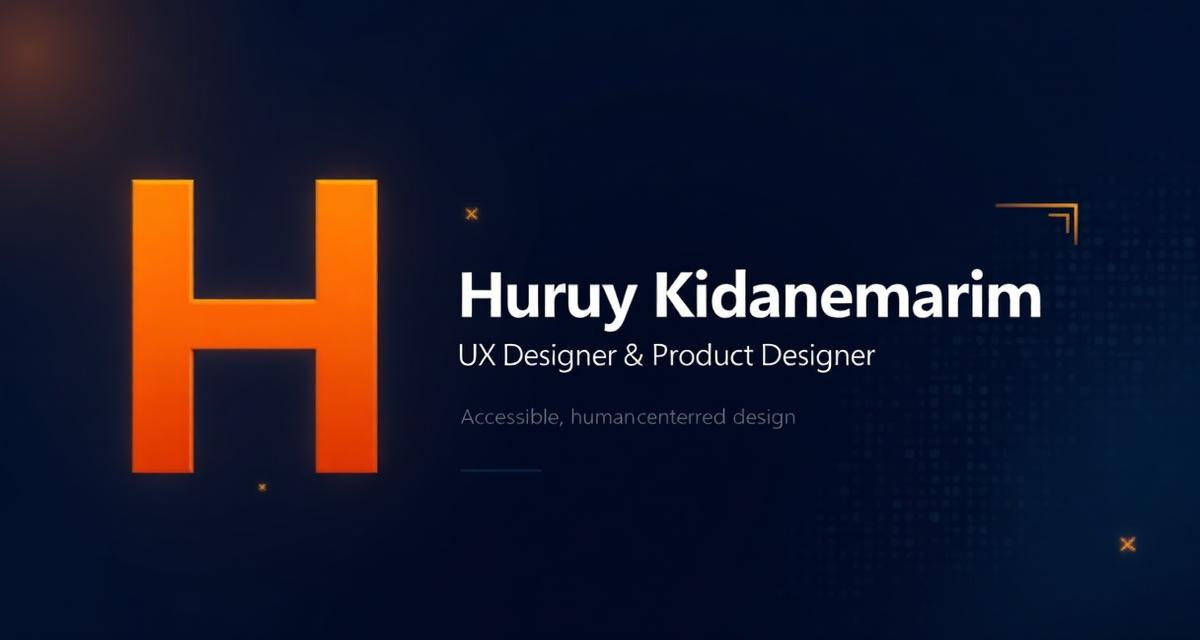
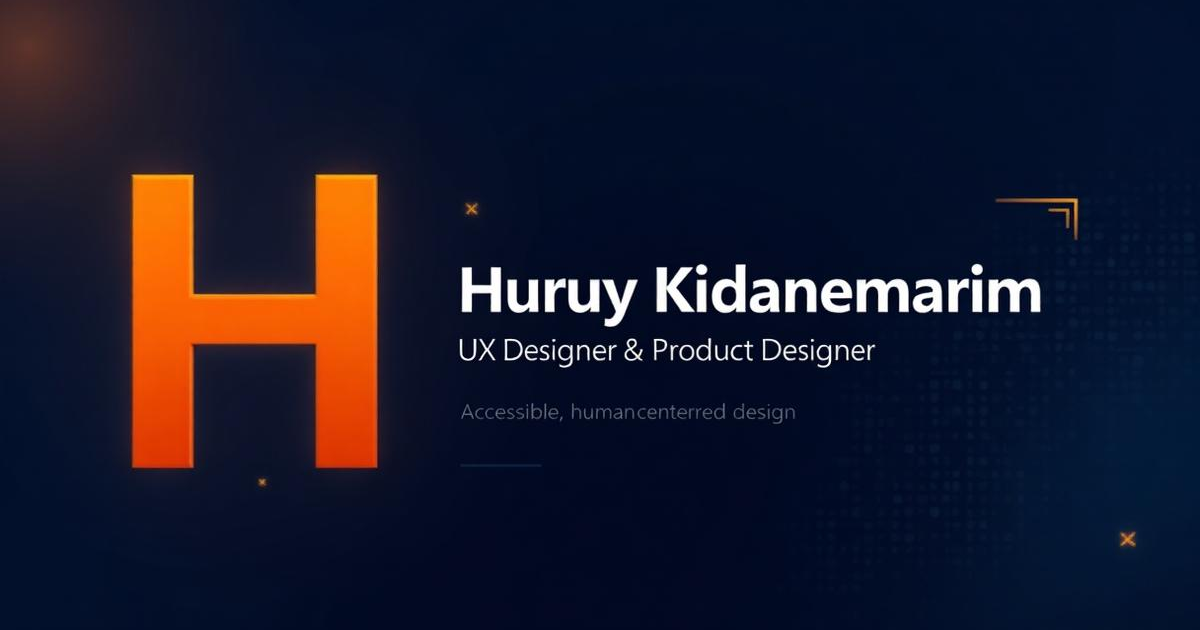
Ship WebP images with dimensions and lazy-load demos and the chat
public/images drops from 11 MB of PNG to 632 KB of WebP (max 1600px); the
three unreferenced images and the unused pay screen are deleted. Every
case-study image carries width, height, loading=lazy and decoding=async
from a generated dimensions map, and empty slots render nothing. Homepage
demos are separate chunks fetched when their card nears the viewport, with
an aspect-ratio placeholder that never widens a phone viewport. A real
1200x630 og-image.png replaces the Lovable bucket screenshot.

Claude-Session: https://claude.ai/code/session_01MdasXvTZ9R8SKjtyNW7zGh

diff --git a/src/components/ProjectCard.tsx b/src/components/ProjectCard.tsx
@@ -1,174 +1,186 @@
 import { Link } from "react-router-dom";
 import { motion } from "framer-motion";
-import { ArrowUpRight, ChevronDown } from "lucide-react";
+import { ArrowUpRight, Lock } from "lucide-react";
 import { Badge } from "@/components/ui/badge";
 import { Button } from "@/components/ui/button";
-import { Collapsible, CollapsibleContent, CollapsibleTrigger } from "@/components/ui/collapsible";
-import BenefitsModuleDemo from "@/components/case-study/BenefitsModuleDemo";
-import EBTSearchDemo from "@/components/case-study/EBTSearchDemo";
-import BelesMatchDemo from "@/components/case-study/BelesMatchDemo";
-import TaxComplianceDashboardDemo from "@/components/case-study/TaxComplianceDashboardDemo";
 import ResponsiveAppShell from "@/components/case-study/ResponsiveAppShell";
+import { AppleLogo } from "@/components/AppStorePromoBanner";
 import type { Project } from "@/lib/projects";
-import { useId, useState, type ComponentType } from "react";
+import { imageDimensions } from "@/lib/imageDimensions";
+import { useId, lazy, Suspense, useEffect, useRef, useState, type ComponentType, type LazyExoticComponent } from "react";
 import { getAppStoreUrl, trackAppStoreClick } from "@/lib/analytics";
 
-const AppleLogo = ({ className }: { className?: string }) => (
-  <svg viewBox="0 0 384 512" fill="currentColor" className={className} aria-hidden="true">
-    <path d="M318.7 268.7c-.2-36.7 16.4-64.4 50-84.8-18.8-26.9-47.2-41.7-84.7-44.6-35.5-2.8-74.3 20.7-88.5 20.7-15 0-49.4-19.7-76.4-19.7C63.3 141.2 4 184.8 4 273.5q0 39.3 14.4 81.2c12.8 36.7 59 126.7 107.2 125.2 25.2-.6 43-17.9 75.8-17.9 31.8 0 48.3 17.9 76.4 17.9 48.6-.7 90.4-82.5 102.6-119.3-65.2-30.7-61.7-90-61.7-91.9zm-56.6-164.2c27.3-32.4 24.8-61.9 24-72.5-24.1 1.4-52 16.4-67.9 34.9-17.5 19.8-27.8 44.3-25.6 71.9 26.1 2 49.9-11.4 69.5-34.3z" />
-  </svg>
-);
-
-const demoComponents: Record<string, ComponentType> = {
-  "oneasure-portal": BenefitsModuleDemo,
-  "ebtfinder": EBTSearchDemo,
-  "beles": BelesMatchDemo,
-  "asure-compliance": TaxComplianceDashboardDemo,
+// Each interactive demo is its own chunk, fetched only once its card scrolls into view.
+const demoComponents: Record<string, LazyExoticComponent<ComponentType>> = {
+  "oneasure-portal": lazy(() => import("@/components/case-study/BenefitsModuleDemo")),
+  ebtfinder: lazy(() => import("@/components/case-study/EBTSearchDemo")),
+  beles: lazy(() => import("@/components/case-study/BelesMatchDemo")),
+  "asure-compliance": lazy(() => import("@/components/case-study/TaxComplianceDashboardDemo")),
 };
 
 const responsiveProjects = new Set(["oneasure-portal", "asure-compliance"]);
 
-const ProjectCard = ({ project, index }: { project: Project; index: number; featured?: boolean }) => {
+/** True once the element has been near the viewport; never flips back. */
+function useNearViewport<T extends Element>(rootMargin = "300px") {
+  const ref = useRef<T>(null);
+  const [near, setNear] = useState(false);
+  useEffect(() => {
+    const el = ref.current;
+    if (!el || near) return;
+    if (typeof IntersectionObserver === "undefined") {
+      setNear(true);
+      return;
+    }
+    const observer = new IntersectionObserver(
+      (entries) => {
+        if (entries.some((e) => e.isIntersecting)) {
+          setNear(true);
+          observer.disconnect();
+        }
+      },
+      { rootMargin },
+    );
+    observer.observe(el);
+    return () => observer.disconnect();
+  }, [near, rootMargin]);
+  return { ref, near };
+}
+
+/** Placeholder with the demo's aspect ratio; never wider than its container so phones don't get a horizontal scroll. */
+const DemoSkeleton = ({ width, height }: { width: number; height: number }) => (
+  <div
+    className="w-full rounded-[2rem] border-[3px] border-foreground/10 bg-muted/40 animate-pulse"
+    style={{ maxWidth: width, aspectRatio: `${width} / ${height}` }}
+    aria-hidden="true"
+  />
+);
+
+const ProjectCard = ({ project, index }: { project: Project; index: number }) => {
   const DemoComponent = demoComponents[project.id];
   const useResponsiveShell = DemoComponent && responsiveProjects.has(project.id);
   const shellWidth = 220;
   const shellHeight = 280;
-  const [detailsOpen, setDetailsOpen] = useState(false);
   const titleId = useId();
-  const detailsId = useId();
+  const { ref, near } = useNearViewport<HTMLDivElement>();
+  const dims = imageDimensions[project.image];
 
   return (
     <motion.div
+      ref={ref}
       initial={{ opacity: 0, y: 30 }}
       whileInView={{ opacity: 1, y: 0 }}
       viewport={{ once: true, margin: "-50px" }}
       transition={{ duration: 0.5, delay: index * 0.1 }}
-      
       className={`h-full ${index === 0 ? "scroll-mt-8" : ""}`}
       id={index === 0 ? "first-project" : undefined}
     >
       <article aria-labelledby={titleId} className="group flex h-full flex-col overflow-hidden rounded-lg border border-border bg-card transition-colors duration-300 hover:border-accent/30 focus-within:border-accent/40">
-          
-          {/* Image / Interactive preview area */}
-          <div
-            className={`${DemoComponent ? 'bg-muted/30' : ''} relative flex h-[440px] shrink-0 items-center justify-center overflow-hidden p-4 sm:h-[460px] sm:p-5`}
-            style={{
-              background: !DemoComponent && project.image.includes("hero-mockup") && !project.image.includes("ebtfinder")
-                ? "linear-gradient(135deg, hsl(var(--muted)) 0%, hsl(var(--muted) / 0.6) 100%)"
-                : undefined,
-            }}
-          >
-            {DemoComponent ? (
-              <div className="relative flex h-full min-w-0 w-full items-center justify-center" role="group" aria-label={`${project.title} interactive preview`}>
-                {useResponsiveShell ? (
-                  <div className="w-full min-w-0">
-                    <ResponsiveAppShell
-                      allowToggle
-                      label={project.title}
-                      desktopWidth={500}
-                      desktopHeight={265}
-                      mobileWidth={shellWidth}
-                      mobileHeight={shellHeight}
-                    >
-                      <DemoComponent />
-                    </ResponsiveAppShell>
-                  </div>
-                ) : (
-                  <div
-                    className="rounded-[2rem] border-[3px] border-foreground/20 bg-background shadow-2xl overflow-hidden"
-                    style={{ width: shellWidth }}
+        {/* Image / Interactive preview area */}
+        <div
+          className={`${DemoComponent ? "bg-muted/30" : ""} relative flex h-[440px] shrink-0 items-center justify-center overflow-hidden p-4 sm:h-[460px] sm:p-5`}
+        >
+          {DemoComponent ? (
+            <div className="relative flex h-full min-w-0 w-full items-center justify-center" role="group" aria-label={`${project.title} interactive preview`}>
+              {!near ? (
+                <DemoSkeleton width={useResponsiveShell ? 500 : shellWidth} height={useResponsiveShell ? 265 : shellHeight} />
+              ) : useResponsiveShell ? (
+                <div className="w-full min-w-0">
+                  <ResponsiveAppShell
+                    allowToggle
+                    label={project.title}
+                    desktopWidth={500}
+                    desktopHeight={265}
+                    mobileWidth={shellWidth}
+                    mobileHeight={shellHeight}
                   >
-                    <div className="bg-foreground/10 h-5 flex items-center justify-center shrink-0">
-                      <div className="w-14 h-1 rounded-full bg-foreground/20" />
-                    </div>
-                    <div
-                      className="relative overflow-y-auto"
-                      style={{
-                        height: shellHeight,
-                        WebkitOverflowScrolling: "touch",
-                        scrollbarWidth: "none",
-                        msOverflowStyle: "none",
-                      }}
-                    >
+                    <Suspense fallback={<DemoSkeleton width={500} height={265} />}>
                       <DemoComponent />
-                    </div>
+                    </Suspense>
+                  </ResponsiveAppShell>
+                </div>
+              ) : (
+                <div
+                  className="rounded-[2rem] border-[3px] border-foreground/20 bg-background shadow-2xl overflow-hidden"
+                  style={{ width: shellWidth }}
+                >
+                  <div className="bg-foreground/10 h-5 flex items-center justify-center shrink-0">
+                    <div className="w-14 h-1 rounded-full bg-foreground/20" />
                   </div>
-                )}
-              </div>
-            ) : (
-              <img
-                src={project.image}
-                loading={index === 0 ? "eager" : "lazy"}
-                decoding="async"
-                width={1200}
-                height={750}
-                alt={`UX case study: ${project.title} by Huruy Kidanemariam`}
+                  <div
+                    className="relative overflow-y-auto"
+                    style={{ height: shellHeight, WebkitOverflowScrolling: "touch", scrollbarWidth: "none", msOverflowStyle: "none" }}
+                  >
+                    <Suspense fallback={<DemoSkeleton width={shellWidth} height={shellHeight} />}>
+                      <DemoComponent />
+                    </Suspense>
+                  </div>
+                </div>
+              )}
+            </div>
+          ) : (
+            <img
+              src={project.image}
+              loading={index === 0 ? "eager" : "lazy"}
+              decoding="async"
+              width={dims?.width ?? 1200}
+              height={dims?.height ?? 750}
+              alt={`UX case study: ${project.title} by Huruy Kidanemariam`}
+              className={`transition-transform duration-500 group-hover:scale-105 ${
+                project.image.includes("hero-mockup") ? "h-[115%] w-auto object-contain drop-shadow-xl" : "w-full h-full object-cover"
+              }`}
+            />
+          )}
+        </div>
 
-                className={`transition-transform duration-500 group-hover:scale-105 ${
-                  project.image === "/placeholder.svg"
-                    ? "w-full h-full object-cover"
-                    : project.image.includes("hero-mockup")
-                    ? "h-[115%] w-auto object-contain drop-shadow-xl"
-                    : "w-full h-full object-cover"
-                }`}
-              />
+        {/* Text content */}
+        <div className="flex flex-1 flex-col p-5 sm:p-6">
+          <div className="mb-2 flex items-center justify-between gap-2">
+            <span className="line-clamp-1 text-xs font-semibold text-accent">{project.impact}</span>
+            {project.gated && (
+              <span className="inline-flex shrink-0 items-center gap-1 rounded-full border border-border bg-muted px-2 py-0.5 text-[11px] font-medium text-muted-foreground">
+                <Lock className="h-3 w-3" aria-hidden="true" /> By request
+              </span>
             )}
           </div>
+          <h3 id={titleId} className="mb-2 min-h-7 text-xl font-bold leading-7">{project.title}</h3>
+          <p className="mb-5 line-clamp-3 text-sm leading-5 text-muted-foreground">{project.description}</p>
 
-          {/* Text content */}
-          <div className="flex flex-1 flex-col p-5 sm:p-6">
-            <span className="mb-2 line-clamp-1 text-xs font-semibold text-accent">{project.impact}</span>
-            <h3 id={titleId} className="mb-2 min-h-7 text-xl font-bold leading-7">{project.title}</h3>
-            <p className="mb-5 min-h-[3.75rem] line-clamp-3 text-sm leading-5 text-muted-foreground">{project.description}</p>
-
-            <Collapsible open={detailsOpen} onOpenChange={setDetailsOpen} className="mt-auto">
-              <CollapsibleTrigger asChild>
-                <Button variant="outline" className="min-h-11 w-full justify-between" aria-controls={detailsId}>
-                  View details
-                  <ChevronDown className={`transition-transform ${detailsOpen ? "rotate-180" : ""}`} aria-hidden="true" />
-                </Button>
-              </CollapsibleTrigger>
-              <CollapsibleContent id={detailsId} className="pt-4">
-                {project.keyResults && (
-                  <dl className="grid grid-cols-1 gap-3 border-l-2 border-accent/30 pl-4 sm:grid-cols-3">
-                    {project.keyResults.map((result) => (
-                      <div key={result.label}>
-                        <dt className="text-xs leading-4 text-muted-foreground">{result.label}</dt>
-                        <dd className="mt-1 text-base font-bold leading-5 text-accent">{result.value}</dd>
-                      </div>
-                    ))}
-                  </dl>
-                )}
-                <div className="mt-4 flex flex-wrap gap-2" aria-label="Project topics">
-                  {project.tags.slice(0, 3).map((tag) => (
-                    <Badge key={tag} variant="secondary" className="text-xs font-normal">{tag}</Badge>
-                  ))}
+          {project.keyResults && (
+            <dl className="mb-5 grid grid-cols-1 gap-3 border-l-2 border-accent/30 pl-4 sm:grid-cols-3">
+              {project.keyResults.map((result) => (
+                <div key={result.label}>
+                  <dd className="text-base font-bold leading-5 text-accent">{result.value}</dd>
+                  <dt className="mt-1 text-xs leading-4 text-muted-foreground">{result.label}</dt>
                 </div>
-              </CollapsibleContent>
-            </Collapsible>
+              ))}
+            </dl>
+          )}
+          <ul className="mb-5 mt-auto flex flex-wrap gap-2" aria-label="Project topics">
+            {project.tags.slice(0, 3).map((tag) => (
+              <li key={tag}><Badge variant="secondary" className="text-xs font-normal">{tag}</Badge></li>
+            ))}
+          </ul>
 
-            <Button asChild className="mt-3 min-h-11 w-full bg-accent text-accent-foreground hover:bg-accent/90">
-              <Link to={`/project/${project.id}`} aria-label={`View ${project.title} case study`}>
-                View case study <ArrowUpRight aria-hidden="true" />
-              </Link>
-            </Button>
-            {project.appStoreUrl && (
-              <Button
-                variant="secondary"
-                aria-label="Download EBT Finder on the App Store"
-                className="mt-3 min-h-11 w-full"
-                onClick={() => {
-                  trackAppStoreClick("homepage_card");
-                  if (project.appStoreUrl) {
-                    window.open(getAppStoreUrl(project.appStoreUrl, "homepage_card"), "_blank", "noopener,noreferrer");
-                  }
-                }}
+          <Button asChild className="min-h-11 w-full bg-accent text-accent-foreground hover:bg-accent/90">
+            <Link to={`/project/${project.id}`} aria-label={`${project.gated ? "Preview" : "View"} ${project.title} case study`}>
+              {project.gated ? "Preview case study" : "View case study"} <ArrowUpRight aria-hidden="true" />
+            </Link>
+          </Button>
+          {project.appStoreUrl && (
+            <Button asChild variant="secondary" className="mt-3 min-h-11 w-full">
+              <a
+                href={getAppStoreUrl(project.appStoreUrl, "homepage_card")}
+                target="_blank"
+                rel="noopener noreferrer"
+                aria-label={`Download ${project.title} on the App Store`}
+                onClick={() => trackAppStoreClick("homepage_card")}
               >
                 <AppleLogo className="h-5 w-5" />
                 <span className="whitespace-nowrap text-sm font-semibold">Available on the App Store</span>
-              </Button>
-            )}
-          </div>
+              </a>
+            </Button>
+          )}
+        </div>
       </article>
     </motion.div>
   );

diff --git a/src/components/case-study/ImageSlot.tsx b/src/components/case-study/ImageSlot.tsx
@@ -1,30 +1,42 @@
-import { ImageIcon } from "lucide-react";
+import { imageDimensions } from "@/lib/imageDimensions";
 
 interface ImageSlotProps {
   slot: string;
   label: string;
-  aspectRatio?: string;
   imageSrc?: string;
+  /** Above-the-fold images load eagerly; everything else is lazy. */
+  priority?: boolean;
+  width?: number;
+  height?: number;
 }
 
-const ImageSlot = ({ slot, label, aspectRatio = "aspect-video", imageSrc }: ImageSlotProps) => {
-  const descriptiveAlt = label && label.trim().split(/\s+/).length >= 2
-    ? `${label} — case study visual by Huruy Kidanemariam`
-    : `${label || "Case study"} visual from Huruy Kidanemariam's UX portfolio`;
-  if (imageSrc) {
-    return (
-      <div className="relative rounded-xl overflow-hidden border border-border bg-muted">
-        <img src={imageSrc} alt={descriptiveAlt} className="w-full max-h-[600px] object-contain" />
-      </div>
-    );
-  }
+/**
+ * A case-study image. Renders nothing when no image exists for the slot, so an
+ * unfilled slot never shows an empty placeholder box to visitors.
+ */
+const ImageSlot = ({ slot, label, imageSrc, priority = false, width, height }: ImageSlotProps) => {
+  if (!imageSrc) return null;
+
+  const descriptiveAlt =
+    label && label.trim().split(/\s+/).length >= 2
+      ? `${label}, case study visual by Huruy Kidanemariam`
+      : `${label || "Case study"} visual from Huruy Kidanemariam's UX portfolio`;
+  const dims = imageDimensions[imageSrc];
+  const w = width ?? dims?.width;
+  const h = height ?? dims?.height;
 
   return (
-    <div
-      className={`rounded-xl border-2 border-dashed border-border ${aspectRatio} bg-muted/30 flex flex-col items-center justify-center gap-3 p-6`}
-    >
-      <ImageIcon className="h-10 w-10 text-muted-foreground/40" />
-      <p className="text-sm font-medium text-muted-foreground">{label}</p>
+    <div className="relative rounded-xl overflow-hidden border border-border bg-muted" data-slot={slot}>
+      <img
+        src={imageSrc}
+        alt={descriptiveAlt}
+        width={w}
+        height={h}
+        loading={priority ? "eager" : "lazy"}
+        decoding="async"
+        className="w-full max-h-[600px] object-contain"
+        style={w && h ? { aspectRatio: `${w} / ${h}` } : undefined}
+      />
     </div>
   );
 };

diff --git a/src/lib/imageDimensions.ts b/src/lib/imageDimensions.ts
@@ -1,0 +1,10 @@
+// Generated by scripts/optimize-images.mjs. Do not edit by hand.
+export const imageDimensions: Record<string, { width: number; height: number }> = {
+  "/images/asure/dallas-onsite.webp": { width: 1368, height: 1824 },
+  "/images/beles/hero-mockup.webp": { width: 864, height: 1184 },
+  "/images/ebtfinder/ebt-sign.webp": { width: 1200, height: 630 },
+  "/images/ebtfinder/hero-mockup.webp": { width: 1344, height: 768 },
+  "/images/ebtfinder/usda-screenshot.webp": { width: 1600, height: 755 },
+  "/images/ebtfinder/wireframes.webp": { width: 1408, height: 768 },
+  "/og-image.png": { width: 1200, height: 630 },
+};
